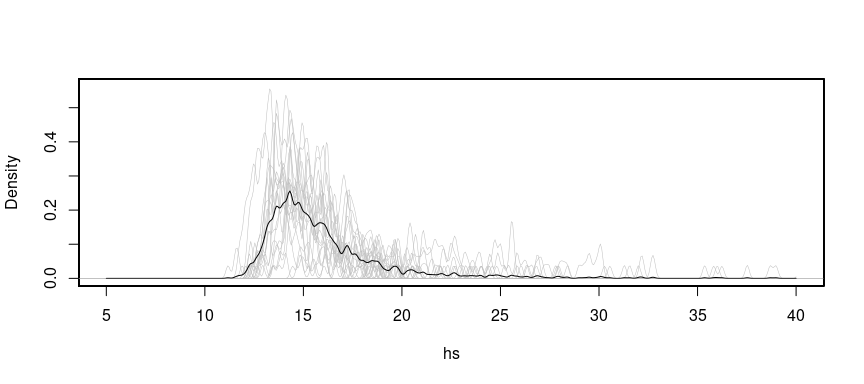
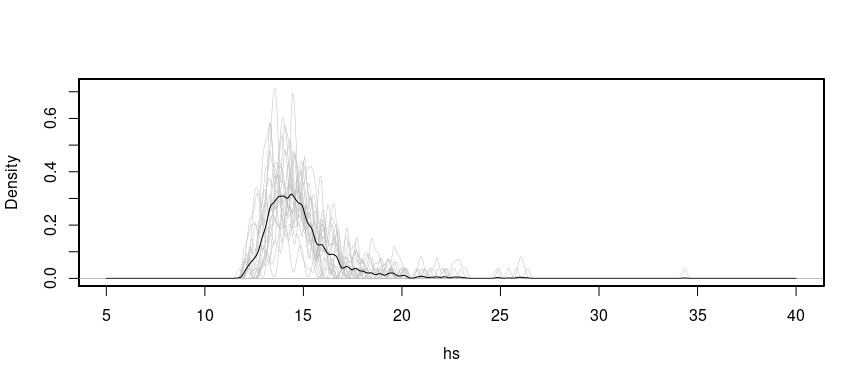
updated README, updated DESCRIPTION, minor changes to diagnostic figures

diff --git a/README.md b/README.md
@@ -12,6 +12,7 @@ Examples for a common metocean use case are provided.
 You can install the development version from GitHub with:
 
 ``` r
+remotes::install_github('bohlinger/EnvEx')
 ```
 
 ## Example
@@ -58,7 +59,7 @@ system.time(df_pick <- peak_picking(ds, peak_picking_thr_model_fml,
     ## [1] "find peaks for combined storms"
 
     ##    user  system elapsed 
-    ## 261.558  24.591 286.202
+    ## 295.389  27.999 323.598
 
 ``` r
 # additional variables were added, i.e. exc, thr, and storm_idx
@@ -98,7 +99,7 @@ system.time(res_bstrp <- run_bootstrap_storms_pots(df = df_pick$storms,
 ```
 
     ##    user  system elapsed 
-    ##   7.113   0.056   7.169
+    ##   8.447   0.077   8.526
 
 ``` r
 bstrp_storms_lst <- res_bstrp$boot_samples
@@ -205,7 +206,7 @@ dhs <- diagnose_margs_preds_density(preds_margs_lst, "hs", bw=.1, xlim=c(5,40))
 
     ## [1] "summary maxes:"
     ##    Min. 1st Qu.  Median    Mean 3rd Qu.    Max. 
-    ##   11.17   14.03   15.15   16.44   16.97  219.42
+    ##   11.73   13.65   14.46   14.83   15.44   43.76
 
 ``` r
 abline(v = max(df_pick$pots$hs), col = "gray", lwd = 2)
@@ -545,9 +546,9 @@ cat(sprintf("Low sector: %.2f\nHigh sector: %.2f\nOmni: %.2f\n",
             RP_f_hmax_low, RP_f_hmax_high, RP_f_hmax))
 ```
 
-    ## Low sector: 13.81
-    ## High sector: 23.60
-    ## Omni: 25.00
+    ## Low sector: 14.17
+    ## High sector: 21.77
+    ## Omni: 23.04
 
 ## Apply to synthetic, univariate, non-stationary data
 
@@ -591,7 +592,7 @@ system.time(df_pick <- peak_picking(ds_subset, peak_picking_thr_model_fml,
     ## [1] "find peaks for combined storms"
 
     ##    user  system elapsed 
-    ##  19.232   0.357  19.590
+    ##  22.111   0.714  22.828
 
 ## Plot picking result
 
@@ -634,7 +635,7 @@ cvres <- cross_validation(dfin = df_pick$pots, nr_cv = 5,
 plot_cvres(cvres, limits = c(.8, .9))
 ```
 
-    ## [1] 0.86 0.86
+    ## [1] 0.88 0.88
 
 ![](README_files/figure-gfm/unnamed-chunk-28-1.png)<!-- -->
 
@@ -771,9 +772,9 @@ cat(sprintf("Truth: %.2f\nq'2: %.2f\nq3: %.2f\nq4: %.2f\n",
 ```
 
     ## Truth: 8.43
-    ## q'2: 8.47
-    ## q3: 8.36
-    ## q4: 8.41
+    ## q'2: 8.37
+    ## q3: 8.35
+    ## q4: 8.35
 
 ## Notes
 
